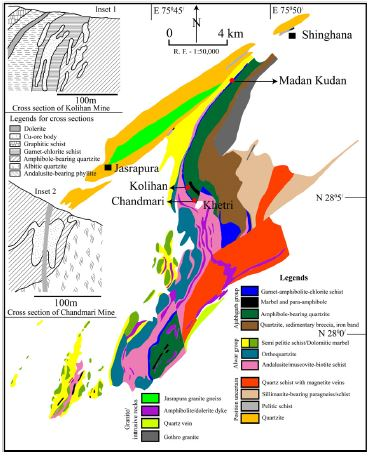
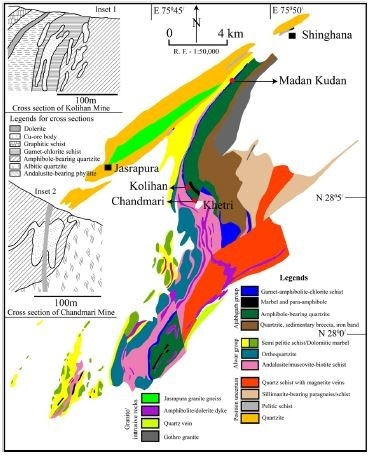
map
map

diff --git a/research/index.html b/research/index.html
@@ -270,7 +270,7 @@ p.main {
         <div class="w3-container">
             <p class="main" style="width: 80%">
              
-            <img_src="khetriMap.JPG" style="width: 88%"></img_src>
+            <img_src="khetriMap.jpg" style="width: 88%"></img_src>
             This work is part of a project investigating the style of hydrothermal mineralisation and ore formation
             in and around Delhi-Aravalli fold belt. I have worked on the geochemical and geostatistical nalysis of amphibole
             originated from the hydrothermal processes. We detected three generations of amphiboles. The last stage of amphibole
